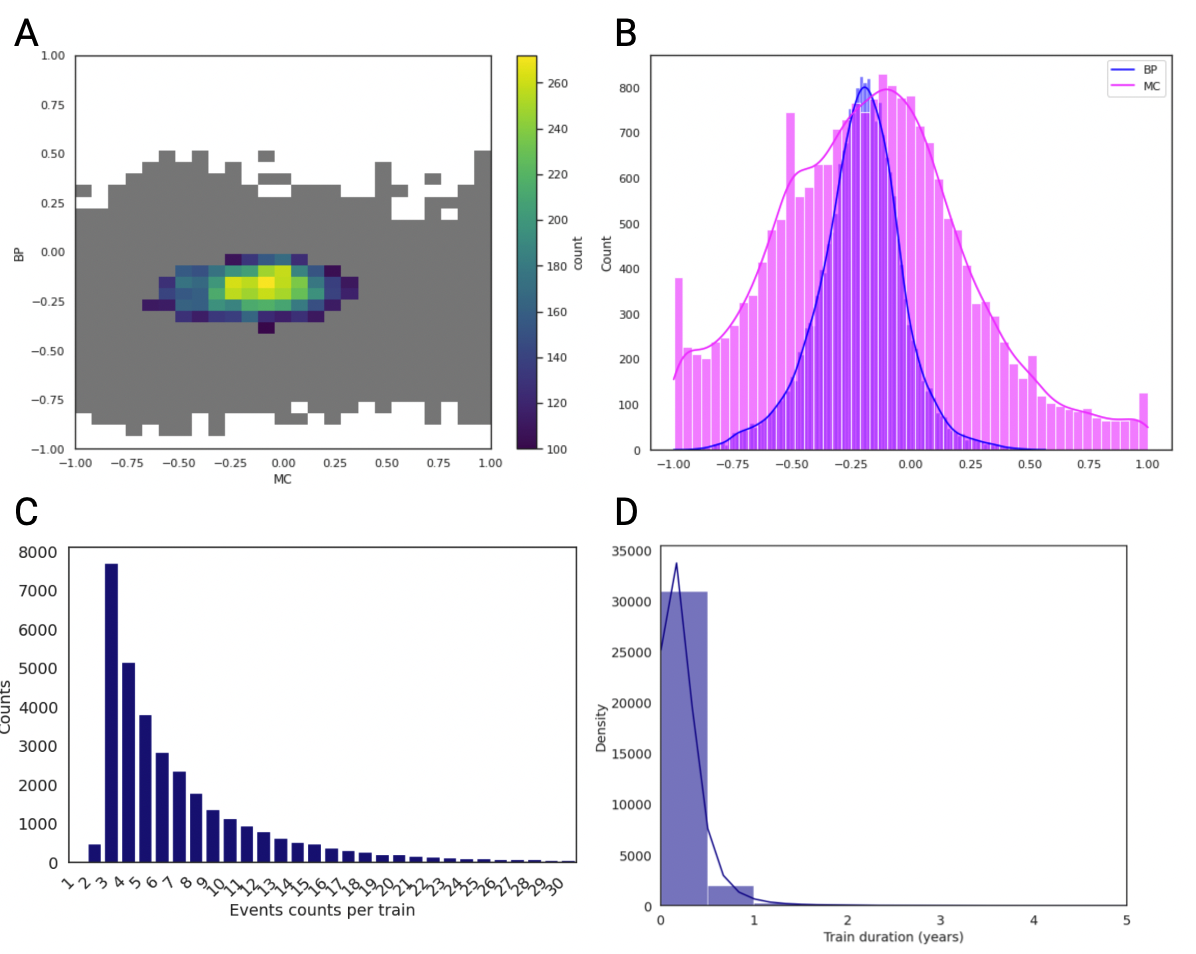
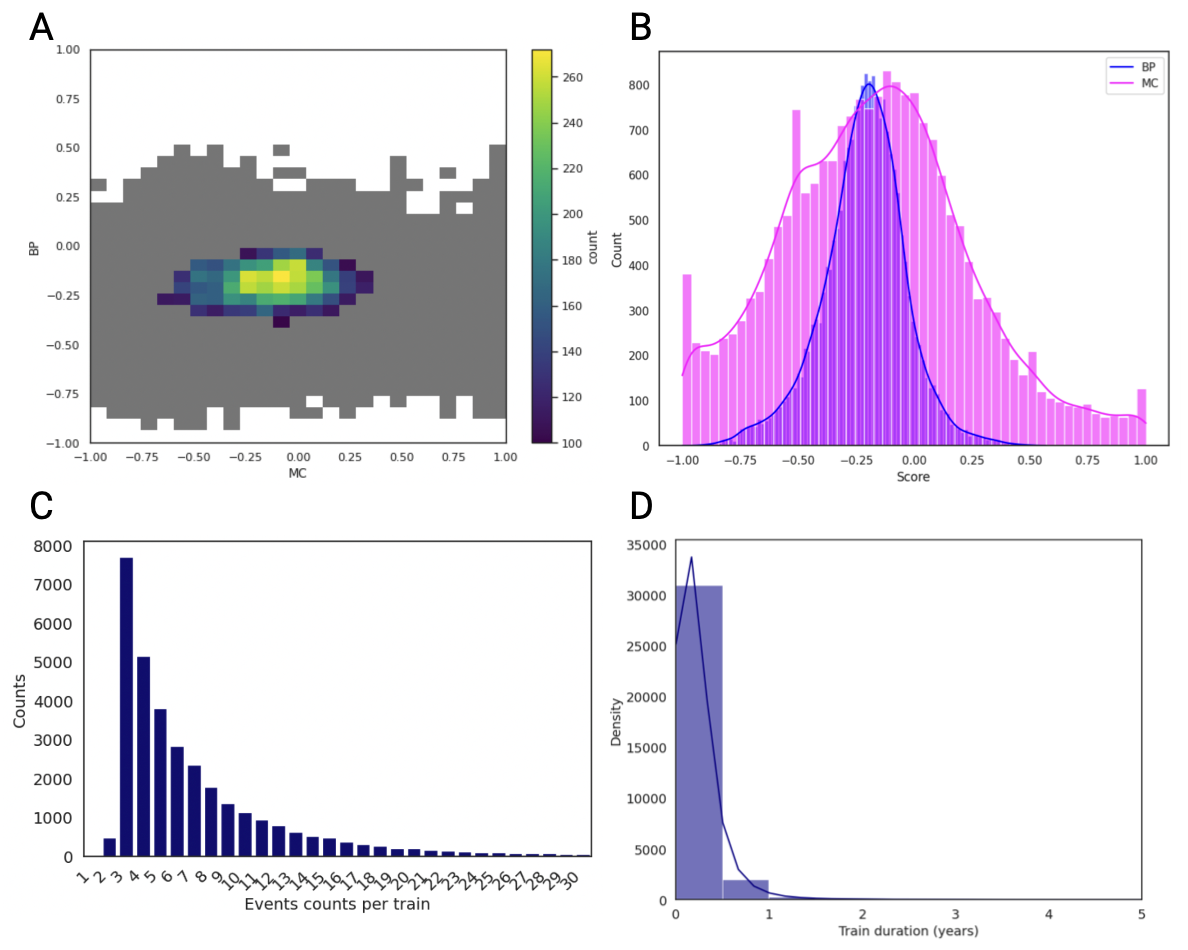
Add paper

Changed region(s): [[0.0, 0.0, 0.9966, 0.5189], [0.0, 0.5189, 0.9655, 1.0], [0.1246, 0.2442, 0.3114, 0.3663]]

diff --git a/paper/paper.md b/paper/paper.md
@@ -1,7 +1,7 @@
 ---
 title: 'bursty_dynamics: A Python package for exploring the temporal properties of longitudinal data'
 tags:
-  - python
+  - Python
   - longitudinal data
   - bursty
   - burstiness parameter
@@ -24,9 +24,11 @@ authors:
   - name: Nick Reynolds
     affiliation: "6, 7"
   - name: Rafael Henkin
-    affiliation: "*, 1, 2"
+    equal-contrib: true
+    affiliation: "1, 2"
   - name: Michael R Barnes
-    affiliation: "*, 1, 2"
+    equal-contrib: true
+    affiliation: "1, 2"
     
 affiliations:
  - name: Faculty of Medicine and Dentistry, Queen Mary University of London
@@ -43,13 +45,12 @@ affiliations:
    index: 6
  - name: NIHR Biomedical Research Centre and Department of Dermatology, Royal Victoria Infirmary, Newcastle Hospitals NHS Foundation Trust, Newcastle upon Tyne, UK
    index: 7
- - name: Both authors contributed equally to this work
-   index: *
 
 date: 13 August 2024
 bibliography: paper.bib
 
 ---
+
 
 # Summary
 
@@ -64,7 +65,7 @@ Longitudinal data, characterised by repeated observations of the same subjects o
 Users can install the package to a local Python environment. Once installed, the package provides various functions for analysing temporal properties of longitudinal data directly from the command-line interface or any Python integrated development environment (IDE). Users start by loading their longitudinal data into a DataFrame and using the provided functions to analyse and visualise the temporal patterns.  Figure 1 shows the structure of the package. A Jupyter notebook with a working example is available Here.
 
 
-![Hierarchical structure of the Python package. The top level represents the package name, followed by the modules ‘score’, ‘trains’, and ‘visual’, with their respective functions listed underneath each module.\label{fig:figure1}](./images/figure1.png)
+![Hierarchical structure of the Python package. The top level represents the package name, followed by the modules ‘score’, ‘trains’, and ‘visual’, with their respective functions listed underneath each module.\label{fig:figure1}](./images/figure1.png){width=85%}
 
 
 The input DataFrame must contain the 'subject_id' and 'time_col' columns (Table 1). The ‘subject_id’ column should include unique identifiers for each subject in the dataset. The 'time_col' column should contain either date or date and time values in a format that is compatible with Python’s Pandas function ‘pandas.to_datetime'.
@@ -93,26 +94,27 @@ To provide a comprehensive overview of the detected trains, the package includes
 
 ## 5. Visualisation Tools
 
-![Examples of visualisations created using the package: (A) Grid plot, (B) Histogram, (C) Event count plot, (D) Train duration plot.\label{fig:figure2}](./images/figure2.png)
+![Examples of visualisations created using the package: (A) Grid plot, (B) Histogram, (C) Event count plot, (D) Train duration plot.\label{fig:figure2}](./images/figure2.png){width=85%}
 
-The package includes various visualisation tools to aid in the interpretation of the calculated metrics and detected trains:
-• Grid Plot: Visualise the relationship between MC and BP with a colour bar.
-• Histogram: Display the distribution of BP and MC, with options of separate or overlapping histograms.
-• Marginal Histograms: Combine scatter plot with histograms to explore the relationship between MC and BP, and their distributions. 
-• Train Duration Plots: Display the distribution of train durations.
-• Event Count Plots: Display the count of unique events per train.
+The package includes various visualisation tools to aid in the interpretation of the calculated metrics and detected trains: <br>
+• Grid Plot: Visualise the relationship between MC and BP with a colour bar. <br>
+• Histogram: Display the distribution of BP and MC, with options of separate or overlapping histograms.<br>
+• Marginal Histograms: Combine scatter plot with histograms to explore the relationship between MC and BP, and their distributions. <br>
+• Train Duration Plots: Display the distribution of train durations.<br>
+• Event Count Plots: Display the count of unique events per train.<br>
 
 The visualisation module offers plotting functions that facilitate group comparisons using the ‘hue’ parameter, enabling the user to colour-encode and segment data based on a specific categorical variable. Functions like ‘scatterplot’, ‘histogram’, ‘train_duration’, and ‘event_counts’ utilise this feature, making it valuable for researchers to uncover insights and present findings clearly. An example of this feature can be seen in the bottom half of the example notebook, under the section ‘Analysing Data with Group Comparisons’. 
 
 # Requirements and limitations
 
-• Data requirements: The input data must be in a tabular format (e.g., a pandas DataFrame) with specific column data:
-    - `subject_id`: A column containing unique identifiers for subjects. 
-    - `eventdate`: A column containing datetime values for events. 
-• Data preprocessing: The package assumes that the input data is clean and pre-processed. Missing values, incorrect data types, and outliers should be handled prior to analysis to ensure accurate results.
-• Parameters: The results of the train detection function are sensitive to the chosen parameters (e.g., maximum inter-event time, minimum number of events for a train). Careful tuning and domain-specific knowledge are required to set appropriate values for these parameters.
-• Visualisation limitations: While the package provides several visualisation tools, complex visualisations or custom plots may require additional coding and use of external libraries beyond what is provided by the package.
-• Interpreting the results: The interpretation of BP and MC is highly domain specific. Users need to have a good understanding of their field to draw meaningful conclusions from these metrics.
+• Data requirements: The input data must be in a tabular format (e.g., a pandas DataFrame) with specific column data: 
+- `subject_id`: A column containing unique identifiers for subjects.<br>
+- `eventdate`: A column containing datetime values for events. <br>
+
+• Data preprocessing: The package assumes that the input data is clean and pre-processed. Missing values, incorrect data types, and outliers should be handled prior to analysis to ensure accurate results.<br>
+• Parameters: The results of the train detection function are sensitive to the chosen parameters (e.g., maximum inter-event time, minimum number of events for a train). Careful tuning and domain-specific knowledge are required to set appropriate values for these parameters.<br>
+• Visualisation limitations: While the package provides several visualisation tools, complex visualisations or custom plots may require additional coding and use of external libraries beyond what is provided by the package.<br>
+• Interpreting the results: The interpretation of BP and MC is highly domain specific. Users need to have a good understanding of their field to draw meaningful conclusions from these metrics.<br>
 
 # Conclusion
 
